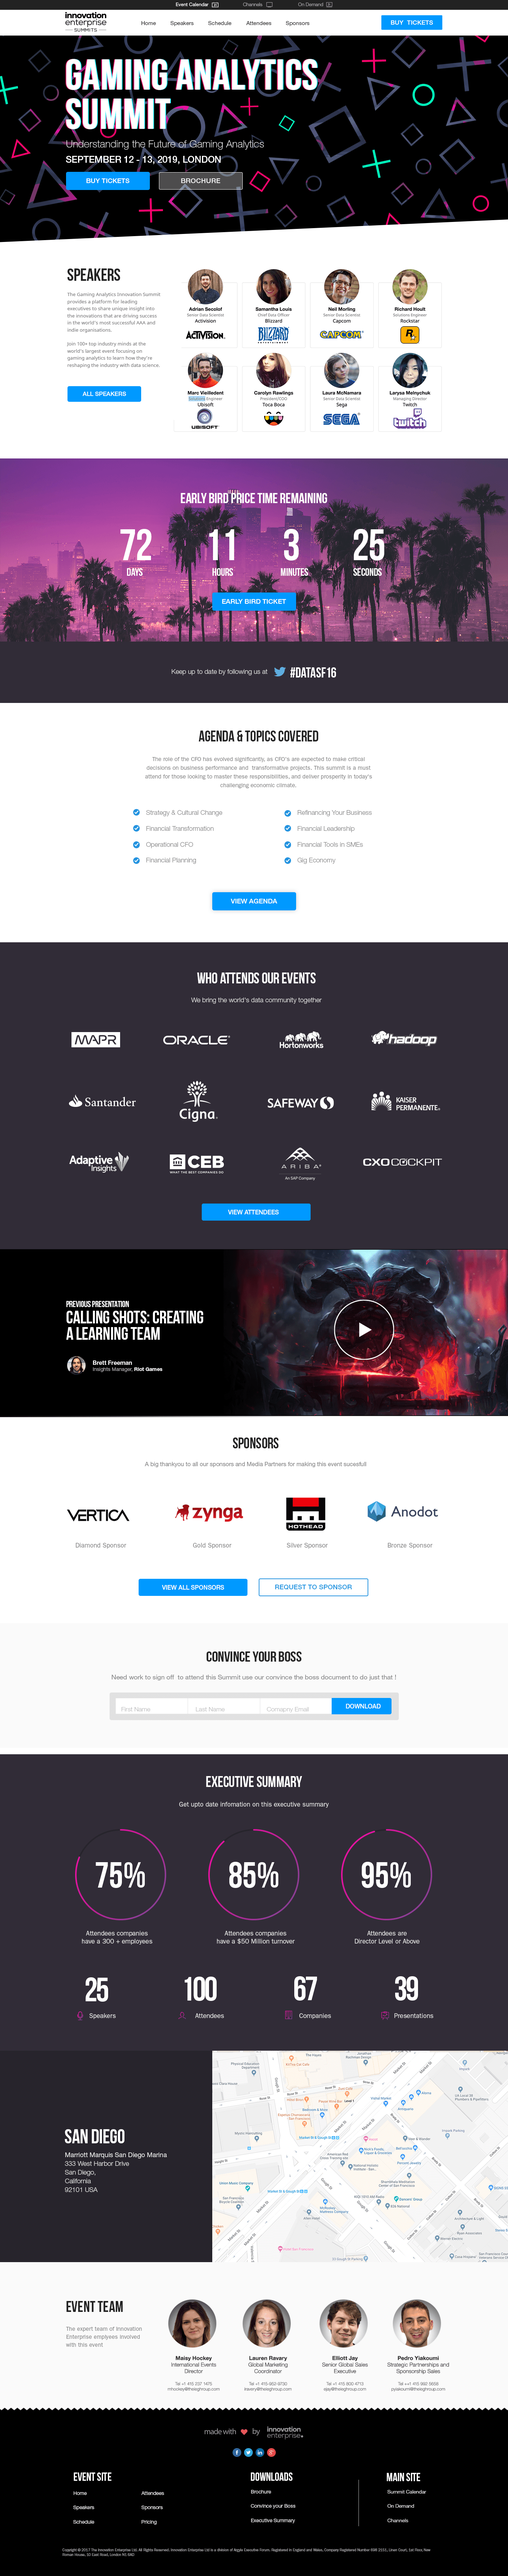
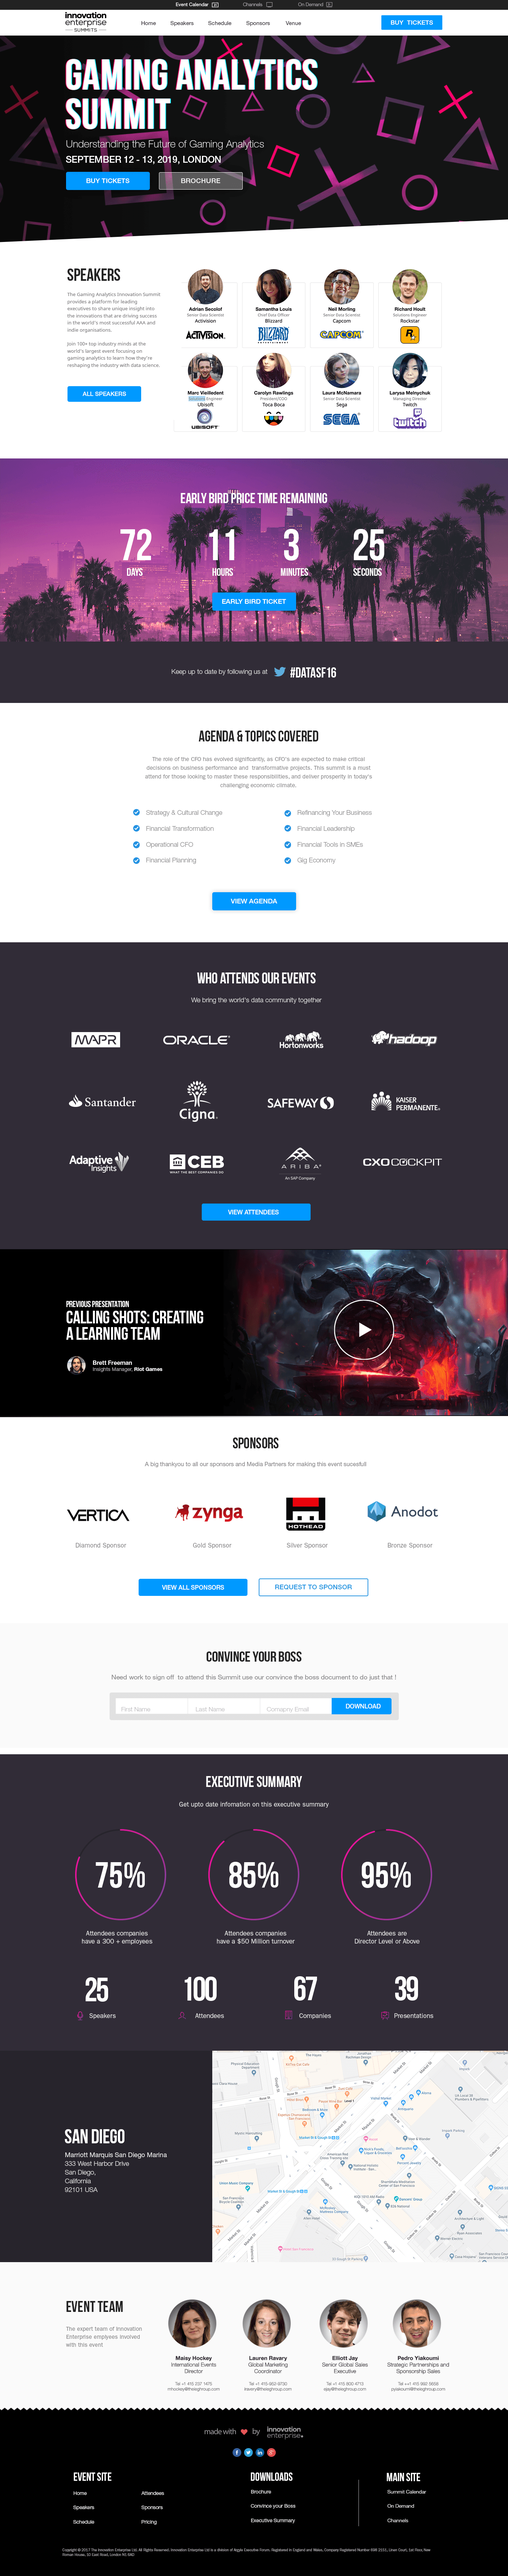
more over view changes

Changed region(s): [[0.1843, 0.0, 1.0, 0.0935], [0.0, 0.0, 0.1229, 0.0935], [0.9521, 0.4987, 1.0, 0.5298]]

diff --git a/overview.html b/overview.html
@@ -262,7 +262,7 @@
       </div>
     </div>
     <div class="section" style="background:#eeeeee;width:100%;">
-    <h5 class="l-wrap">Hi fidelity Header concepts</h5>
+    <h5 class="l-wrap">Initial Header concepts</h5>
       <div class="conceptsgrid l-wrap" >
         <div class="conceptitem1" id="1">
         <img src="images/Overview/conceptgrid1.png"></img>
@@ -286,8 +286,8 @@
     </div> 
     <div class="l-wrap">
       <div class="twohalfssection">
-        <div  class="mainbodytext">
-          <h5>Header Concepts</h5>
+        <div  class="mainbodytext section">
+          <h5></h5>
           <h3>The trade off between single &amp; mass producing</h3>
           <p>
           I like my work to stand out and to be individual and eye catching, This works well if I were designing individual event sites but when deisgning for mass production any design features are repeated across all the sites.</p><p>So a unique design feature looks great on a single site goes from unique to repetitive very quickly, when you have  hundreds all looking the same.</p><p>EG. if I have a background image placed in a triangle it will look great for one event but when a user sees it on hundreds of events it becomes a repetitive and also quite restrictive when designing for.</p><p>Its a bit like trying to pick an outfit to wear or food to eat with out change for the next year, you’d pick something that was versatile and gave you as much freedom as possible.</p><p>Also any extra design elements that would need more sections in the CMS were to be avoided Eg. changing the colour of the header text would need an input</p><p>So any stand out design features were avoided, but more of a simple design where the image does more if the work ... if that makes sense</p><p>So with this in mind the concept that we went with was quite a plain header.
@@ -343,12 +343,12 @@
     </div>
     </div>  
     <!--Prototypes-->
-    <div class="imagesectionhead" style="background-image: url(images/overview/prototypeheader.png);">
+    <div class="imagesectionhead" style="background-image: url(images/overview/prototypeheader2.png), url(images/overview/Prototypeheader.svg), url(images/overview/prototypeheader.png);background-size:700px, 700px,cover;background-repeat:no-repeat,repeat;background-position:bottom -74px right,left,right center;">
       <div class="wide">
-        <h1 class="imagesectionheadtext" style="color:#222222;" >Prototype</h1>
+        <h1 class="imagesectionheadtext" style="color:#ffffff;" >Finals</h1>
       </div>
     </div>
-    <div style="background:#222222;">
+    <div style="background:#ffffff;">
       <div class="wide">
         <div class=" section twohalfssection">
           <div  class="breif">

diff --git a/overviewgrid.css b/overviewgrid.css
@@ -134,7 +134,7 @@
 
 .conceptsgrid{
 	background-color: #eeeeee;
-	width:100%;
+	width:95%;
 	display:grid;
 	grid-template-columns:1fr 1fr;
 	grid-template-rows:auto auto auto;
@@ -221,6 +221,7 @@
 	grid-template-rows:auto auto auto auto auto auto;
 	grid-gap: 2% 2%;
     padding: 3%;
+    margin-bottom: 100px;
 }
 .concept2item1{
 	background-size: contain;
@@ -293,7 +294,7 @@
 }
 }
 @media (min-width:900px) {
-	.conceptsgrid{
+.conceptsgrid{
 	width:95%;
 	height: 100%;
 	display:grid;
